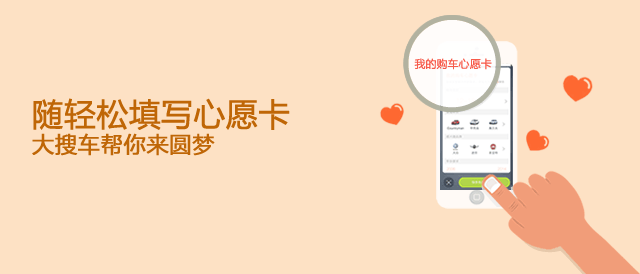
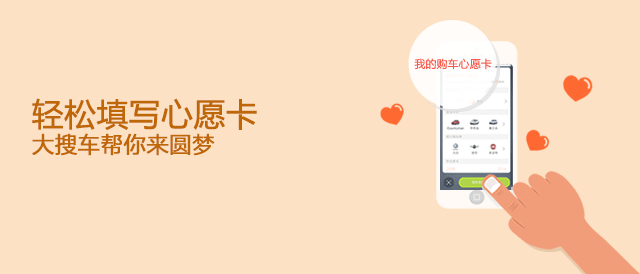
1.buy-app replace some img 2.h5-3-index temp commit

Changed region(s): [[0.0312, 0.3504, 0.4688, 0.5547], [0.6562, 0.0292, 0.7812, 0.4088], [0.625, 0.1168, 0.6562, 0.3504]]

diff --git a/assets/css/mobile/h5-3/index-header.css b/assets/css/mobile/h5-3/index-header.css
@@ -7,15 +7,14 @@ header{
     color:#fff;
     background: #ff571a;
 }
-.logo{
-    width:81px;
-    height: 20px;
-    background: url(../../../images/mob/h5-3/logo.png) no-repeat center;
-    background-size: 100%;
-}
+
 .hd-logo{
     float: left;
     margin: 12px 17px 0 10px;
+    width:81px;
+    height: 20px;
[1 lines of base64/hex data omitted]
+    background-size: 100%;
 }
 .hd-city{
     float: left;
@@ -26,7 +25,7 @@ header{
 }
 .hd-search{
     float: right;
-    background: url(../../../images/mob/h5-3/hd-search.png) no-repeat center;
[1 lines of base64/hex data omitted]
     background-size: 100%;
     width: 20px;
     height: 20px;
@@ -49,6 +48,37 @@ header{
     color:#666;
     position: relative;
     border-bottom: 1px solid #e7e7e7;
+}
+.nav-icon{
+    display: inline-block;
+    margin-right: 6px;
+    vertical-align: -2px;
+}
+.car-icon {
[1 lines of base64/hex data omitted]
+    background-size: 100%;
+    width: 13px;
+    height: 13px;
+}
+.active .car-icon {
[1 lines of base64/hex data omitted]
+    background-size: 100%;
+}
+.hot-icon {
+    width: 11px;
+    height: 13px;
[1 lines of base64/hex data omitted]
+    background-size: 100%;
+}
+.active .hot-icon {
[1 lines of base64/hex data omitted]
+    background-size: 100%;
+}
+.rocket-icon {
+    width: 13px;
+    height: 13px;
[1 lines of base64/hex data omitted]
+    background-size: 100%;
 }
 nav .nav-item{
     width: 33.3%;
@@ -77,23 +107,36 @@ nav .nav-item.active{
 .tab-panel{
     float: left;
 }
+/* tab-panel-1*/
 .car-area{
-    padding: 0 5px;
+    padding: 10px 5px 0;
+    background: #f5f5f5;
+    overflow: hidden;
 }
 .car-wrapper{
     width: 50%;
     float: left;
 }
+.car-area .for-carcustom{
+    margin: 0 5px;
+    color: #fff;
+    background: #764284;
+    height: 44px;
+    line-height: 44px;
+    font-size: 12px;
+    padding-left: 16px;
+}
 .car-card{
     width: 145px;
     margin: 10px auto 0;
+    background: #fff;
 }
 .car-card img{
     width: 145px;
     height: 98px;
 }
 .car-card .car-info{
-    padding: 10px 8px;
+    padding: 10px 8px 0;
     font-size:12px;
     border:1px solid #e6e6e6;
     border-top:none;
@@ -108,30 +151,65 @@ nav .nav-item.active{
 .car-card .car-time{
     color:#999;
     float: right;
-    margin-top: 6px;
+    line-height: 22px;
 }
 .car-card .car-price{
     font-size: 14px;
     float: left;
     color:#ff571a;
     line-height: 22px;
+    margin-bottom: 3px;
+}
+.car-card .recommend{
+    clear: both;
+    color: #999;
+    border-top:1px solid #e6e6e6;
+    line-height: 32px;
+    position: relative;
+}
+.car-card .time-limit{
+    clear: both;
+    color: #999;
+    border-top:1px solid #e6e6e6;
+    line-height: 32px;
+}
+.car-card .clock{
+    display: inline-block;
+    width: 12px;
+    height: 12px;
+    border-radius: 12px;
+    border: 1px solid #999;
+    line-height: 5px;
+    padding-left: 4px;
+    vertical-align: 3px;
+    margin-right: 8px;
+}
+.car-card .fav {
+    position: absolute;
+    right: -10px;
+    top:0;
+    width: 40px;
+    height: 40px;
+}
+.car-card .fav .star-shape{
+    font-size: 13px;
 }
 .car-card .price-num{
     font-weight: bold;
 }
 .car-card .car-price-down{
     float: right;
-    padding:4px;
-    background: #FF571A;
-    color: #fff;
+    color: #FF571A;
+    line-height: 22px;
 }
+
 .car-area .look-more{
     height: 36px;
     line-height: 36px;
     color:#666;
     border:1px solid #E6E6E6;
-    background:#f5f5f5 ;
-    margin: 10px 5px 0;
+    background:#fff ;
+    margin: 10px 5px;
     text-align: center;
     font-size: 12px;
 }
@@ -141,14 +219,17 @@ nav .nav-item.active{
     color:#000;
     font-size: 12px;
 }
+
 .quick-search-area{
     margin: 0 16px;
 }
 .quick-search-area .title{
-    padding: 25px 0 15px;
+    margin: 25px 0 15px;
     font-size: 14px;
     color:#333;
     line-height: 14px;
+    border-left: 2px solid #FF571A;
+    padding-left: 8px;
 }
 .quick-search-area .title .more{
     color:#666;
@@ -174,6 +255,39 @@ nav .nav-item.active{
     font-size: 12px;
     line-height: 45px;
 }
+
+/*tab-panel-2*/
+.filter-area{
+    background: #f5f5f5;
+}
+.filter-item{
+    height: 68px;
+    line-height: 68px;
+    font-size: 12px;
+}
+.filter-title{
+    float:left;
+    width: 58px;
+}
+.filter-content{
+
+}
+.filter-item .select-price{
+    width: 100px;
+    height: 36px;
+    padding-left:10px;
+    -webkit-appearance: none;
+    appearance: none;
+    border-radius: 2px;
+    border:1px solid #ccc;
+}
+.filter-item .to{
+    font-size: 0;
+    display: inline-block;
+    height: 1px;
+    width: 14px;
+}
+/*footer*/
 .footer{
     background: #333;
     color: #9a9a9a;

diff --git a/assets/js/mobile/lib/af.touchEvents.js b/assets/js/mobile/lib/af.touchEvents.js
@@ -14,6 +14,7 @@
  */
 /* global af*/
 //在原开源文件中，加了2处,用于解决android上的bug
+//修改了swipe的阈值，由30px变成60px
 (function($) {
     "use strict";
     //(1)
@@ -81,7 +82,7 @@
                 touch.el.trigger("doubleTap");
                 touch = {};
             } else if (touch.x2 > 0 || touch.y2 > 0) {
-                (Math.abs(touch.x1 - touch.x2) > 30 || Math.abs(touch.y1 - touch.y2) > 30) &&
+                (Math.abs(touch.x1 - touch.x2) > 60 || Math.abs(touch.y1 - touch.y2) > 60) &&
                 touch.el.trigger("swipe") &&
                 touch.el.trigger("swipe" + (swipeDirection(touch.x1, touch.x2, touch.y1, touch.y2)), touch);
                 touch.x1 = touch.x2 = touch.y1 = touch.y2 = touch.last = 0;
